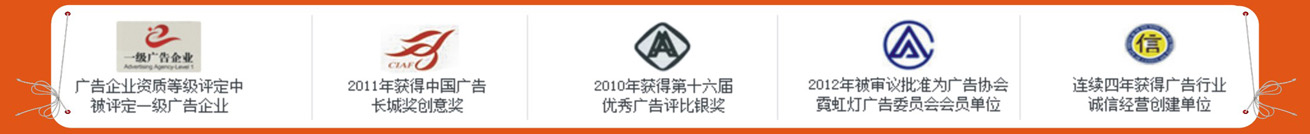
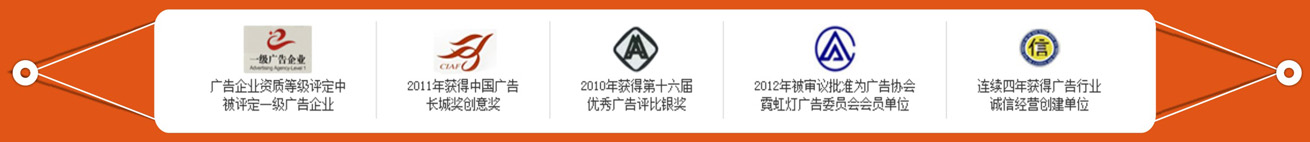
fix UI

diff --git a/SunShine.Web/Css/Bootstrap/style.css b/SunShine.Web/Css/Bootstrap/style.css
@@ -516,7 +516,7 @@ hr {
 
         .cp_list1 ul li {
             width: 346px;
-            margin: 45px 0 0 40px;
+            margin: 20px 0 0 40px;
             float: left;
             position: relative;
             z-index:10;
@@ -527,8 +527,7 @@ hr {
             }
 
             .cp_list1 ul li .cp_img {
-             
-                height: 247px;
+                height: 230px;
                 border: #c9c9c9 solid 1px;
                 overflow: hidden;
                 z-index:100;
@@ -538,7 +537,6 @@ hr {
                 width:100%;
                 opacity: 0.6;
                 filter: alpha(opacity=60);
-                height: 50px;
                 border: #000000 solid 1px;
                 position: absolute;
                 bottom: 0;
@@ -549,8 +547,8 @@ hr {
 
 .cp_name {
     width: 220px;
-    padding:10px 0;
-    font-size: 22px;
+    padding:5px 0;
+    font-size: 20px;
     overflow: hidden;
     text-align: center;
     float:left;
@@ -721,15 +719,15 @@ hr {
     }
 
 .ckxq_ljzx {
-    height: 26px;
-    line-height: 26px;
+    height: 25px;
+    line-height: 22px;
     background-color: #F4F1EA;
     border: 1px solid #E15517;
     font-size: 15px;
     width: 90px;
     text-align: center;
     float: right;
-    margin-top: 13px;
+    margin-top: 7px;
     background: #E15517;
         margin-right: 15px;
 }

diff --git a/SunShine.Web/Css/Bootstrap/home.css b/SunShine.Web/Css/Bootstrap/home.css
@@ -1508,13 +1508,12 @@ ul.advance_item_content_box {
 .core_advance_box_part2 .part_left {
     float: left;
     width: 520px;
-    margin-left:-120px;
 }
 
 .core_advance_box_part2 .part_right {
     float: left;
     width:360px;
-    margin-left:20px;
+    margin-left:96px;
 }
 .part_left img {
     width: 100%;
@@ -1624,10 +1623,11 @@ ul.advance_item_content_box {
 .jcarousel_more {
         width: 150px;
     float: left;
-    height: 100%;
+    height: 176px;
     margin: 0;
     background-color: #E67817;
     margin-left: 100px;
+    padding-top:20px;
 }
 
     .jcarousel_more .more_item {
@@ -1637,7 +1637,7 @@ ul.advance_item_content_box {
 
     .jcarousel_more .more_ch_title {
         font-size: 34px;
-        margin-top: 30px;
+        margin-top: 0;
     }
 
     .jcarousel_more .more_en_title {
@@ -1648,7 +1648,7 @@ ul.advance_item_content_box {
     }
 
     .jcarousel_more .more_button {
-        margin-top: 25px;
+        margin-top: 20px;
     }
 
         .jcarousel_more .more_button a {

diff --git a/SunShine.Web/jsor-jcarousel/extra/jcarousel.responsive.css b/SunShine.Web/jsor-jcarousel/extra/jcarousel.responsive.css
@@ -5,7 +5,8 @@
     float: left;
     background-color: #E15517;
     border-bottom: 6px solid #383431;
-    height: 190px;
+    /*padding-bottom:12px;*/
+    /*height: 190px;*/
 }
 
 /** Carousel **/
@@ -16,7 +17,7 @@
     width: 1000px;
     float: left;
     margin-left: 60px;
-    margin-top: 17px;
+    margin-top: 25px;
     /* margin-bottom: 15px; */
 }
 
@@ -31,7 +32,7 @@
     .jcarousel li {
         width: 200px;
         float: left;
-        border: 1px solid #fff;
+        /*border: 1px solid #fff;*/
         -moz-box-sizing: border-box;
         -webkit-box-sizing: border-box;
         box-sizing: border-box;

diff --git a/SunShine.Web/Css/public.css b/SunShine.Web/Css/public.css
@@ -239,7 +239,7 @@
 }
 
 .case_nav {
-    height: 50px;
+    height: 46px;
     border: 1px solid #c3c3c3;
     background-color:#E15517;
 }
@@ -254,7 +254,7 @@
     }
 
     .case_nav .case_nav_title {
-        line-height: 50px;
+        line-height: 46px;
         font-size: 15px;
         float: left;
         margin-left: 6px;

diff --git a/SunShine.Web/Controllers/ProductController.cs b/SunShine.Web/Controllers/ProductController.cs
@@ -17,7 +17,7 @@ namespace SunShine.Web.Controllers
         {
             string contactusStr = string.Empty;
             int pageCount = 0;
-            int pageSize = 6;
+            int pageSize = 8;
             bool result = true;
             List<ProductViewModel> productViewModels = new List<ProductViewModel>();
             ProductCategory category = null;
